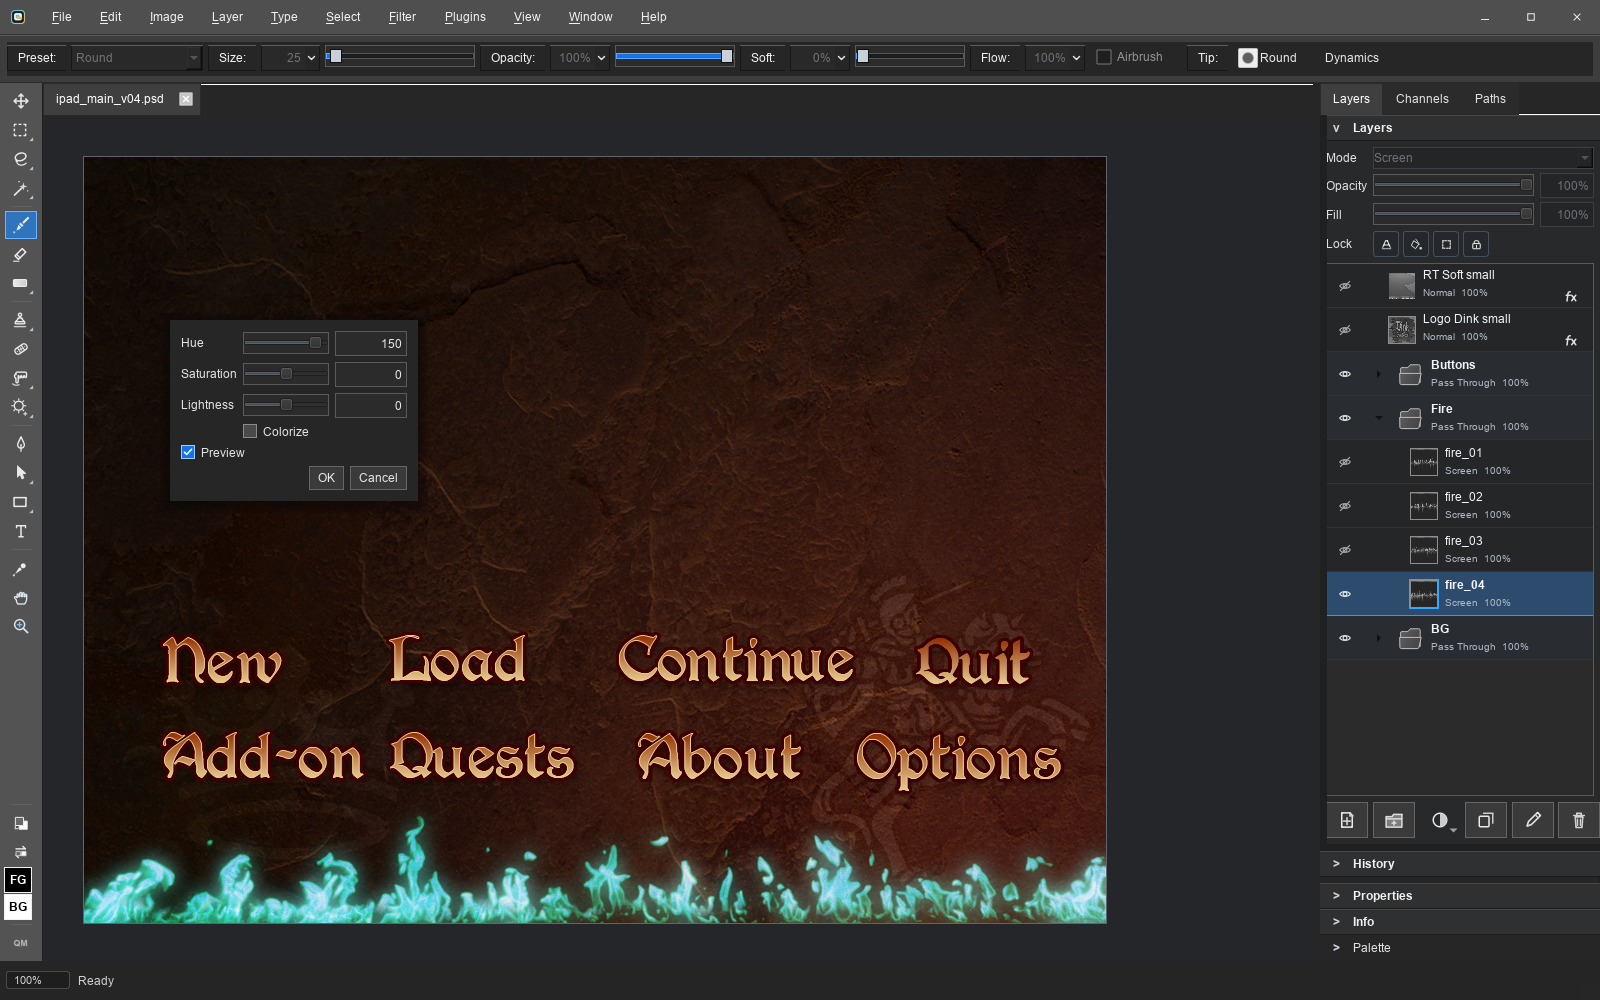
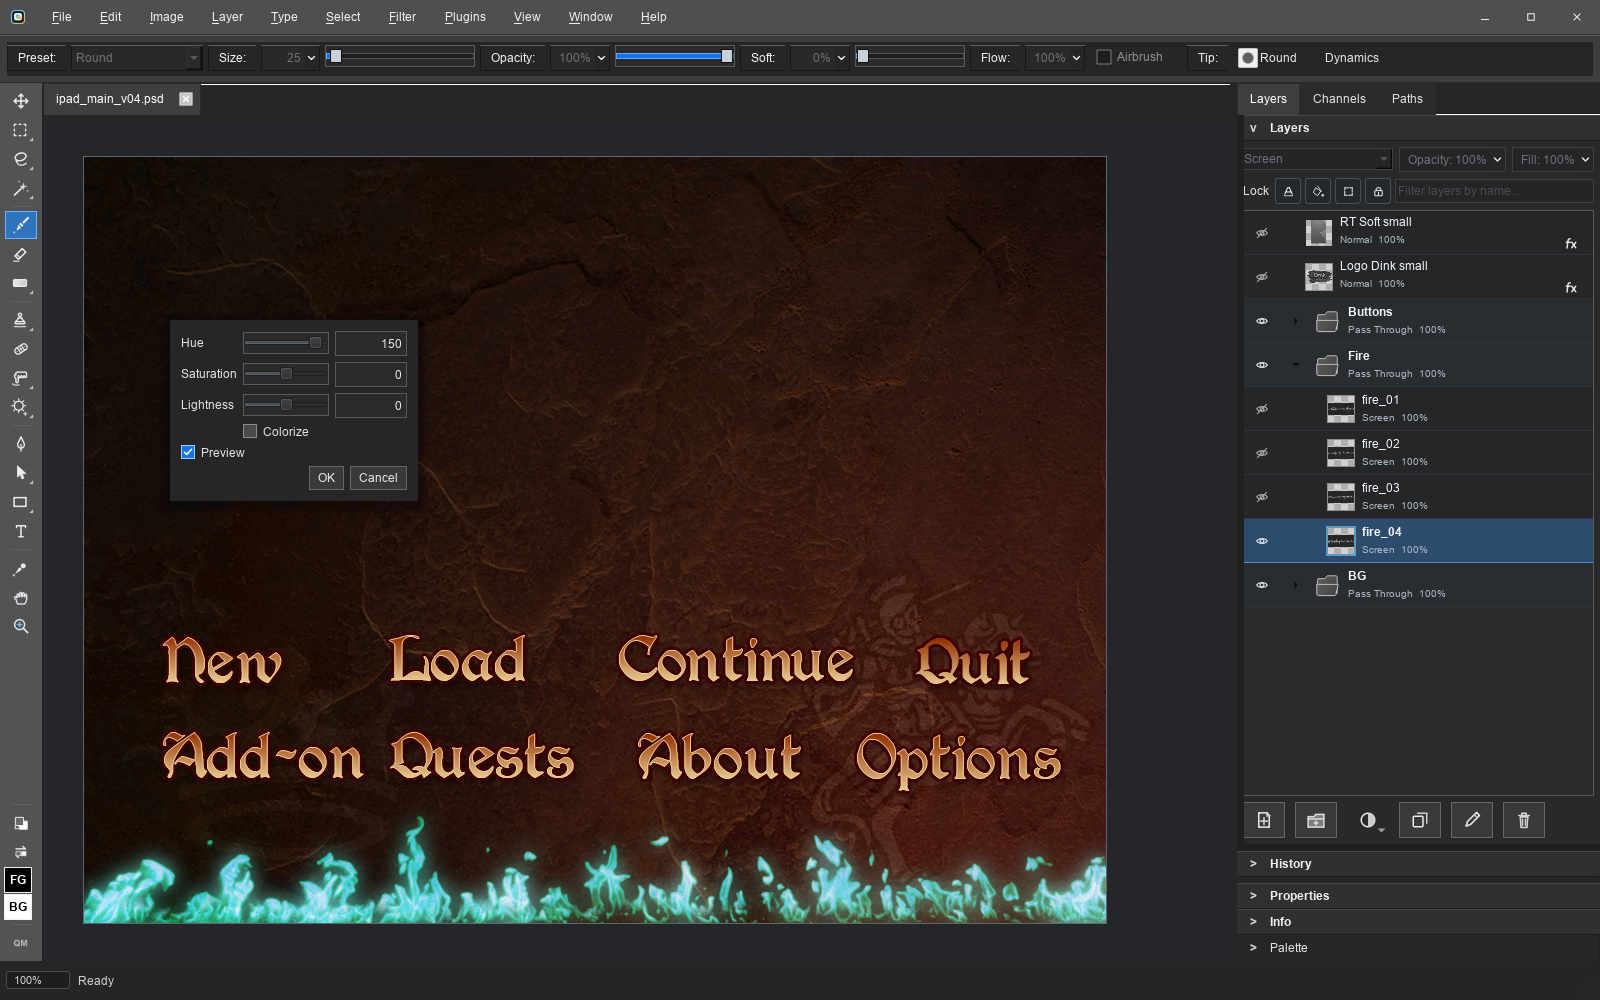
Docs, versioning, and regenerated README screenshots for V0.83

Changed region(s): [[0.75, 0.062, 1.0, 0.651], [0.7812, 0.806, 1.0, 0.961], [0.875, 0.093, 0.9375, 0.124]]

diff --git a/README.md b/README.md
@@ -169,6 +169,18 @@ flatpak install -y flathub org.freedesktop.Platform.ffmpeg-full//24.08
 
 ## What's New
 
+### 0.83 - July 25, 2026
+
+- The Layers panel got a big cleanup: Mode, Opacity, and Fill share one compact row, the lock buttons sit together on the left, and thumbnails aspect-fit their layer instead of stretching to a square (hidden layers keep full-color thumbnails, and the transparency checker is brighter, like Photoshop's)
+- A new filter box in the Layers panel finds layers by name, including inside collapsed folders. Alt-click a visibility eye to solo that layer and Alt-click again to restore what was visible before, or drag down the eye column to toggle a whole run of layers in one sweep
+- Layer groups can now carry raster masks: Add Layer Mask works on folders, group masks render and round-trip through PSD, and group opacity now composites like Photoshop for both Pass Through and isolated blend modes
+- 16-bit and 32-bit PSD files now open, converting to 8-bit with Photoshop-calibrated conversion
+- Layer style rendering moved much closer to Photoshop: inner glow and inner shadow model Range, Technique, and the Center source; Bevel & Emboss gains calibrated Lambert shading, plain and Pillow Emboss, and correct pillow shading on anti-aliased curves; strokes anchor to subpixel coverage, render Shape Burst gradients, and model Overprint and zero-opacity knockout; gradient overlays match Photoshop's linear, radial, diamond, and conical geometry; interior effects stack in Photoshop's order; and Layer Knocks Out Drop Shadow works
+- PSD compatibility fixes: effect blend modes in Photoshop CS-era files import correctly instead of falling back to Normal, CS4-era shape layers rasterize instead of locking the file, imported text keeps Photoshop's own raster until you edit it (no more substituted-font redraws at load), and layers positioned far off the canvas keep their true position instead of being pulled onto the canvas and re-saved wrong
+- The gradient options bar gained a Presets button with a quick-picker popup, which the Edit Gradient Stops dialog now uses too
+- Affinity .af text imports first-line, hanging, and right paragraph indents
+- Fixes: Reveal in Explorer opens the right folder when the path has spaces, boxed text lines that straddle the frame edge draw whole, and the Script Manager's tree pane no longer cuts off bundled script names
+
 ### 0.82 - July 21, 2026
 
 - JavaScript scripting is here: scripts drive documents, layers, text, selections, pixels, filters, form dialogs, file pickers, and batch processing through a documented API (patchy.d.ts for machines, a scripting guide under Help for humans), with one undo entry per run no matter how much a script changes
@@ -177,19 +189,6 @@ flatpak install -y flathub org.freedesktop.Platform.ffmpeg-full//24.08
 - Scripts ask for input through patchy.ui.showOptions: a real options dialog with instructions and folder/file pickers in GUI runs, --script-arg overrides from the command line, and the same defaults applied without a dialog when run unattended
 - Scripts can play sound with patchy.ui.playTone and playSound (Breakout and Pong picked up retro blips), a long busy script shows a stop panel with live progress and optional undo of its changes, and the script watchdog measures inactivity rather than total runtime so hour-long batches survive
 - patchy --run-script file.js runs a script against a new or running instance and writes console output to a file, so external tools and AI agents can drive Patchy; the Script Manager's C:\ button shows a copyable command line for any script
-
-### 0.81 - July 20, 2026
-
-- Affinity Photo and Designer .af files now open as layered documents: raster layers (8-bit, 16-bit, grayscale, and float), groups, layer masks, clipping, opacity and blend modes, CMYK and Lab color through ICC conversion, document DPI, and the canvas background all come through, with scaled and rotated layers rendered through their transforms. Anything Patchy can't model becomes a named placeholder layer with a notice instead of failing the open
-- Affinity text imports as real editable text layers with per-run fonts, sizes, and colors, alignment, paragraph spacing, All Caps, frame-box wrapping, and rotated artistic text, and Affinity layer effects (shadows, glows, strokes, color and gradient overlays, bevels) map onto Patchy layer styles
-- Affinity vector curves import as shape layers with their fills and strokes, placed images become embedded Smart Objects (so Edit Contents and Replace Contents work on them), and Curves, Levels, HSL, Color Balance, Invert, Posterize, Threshold, and Brightness/Contrast adjustment layers import natively with their masks
-- Five new blend modes: Vivid Light, Linear Light, Hard Mix, Darker Color, and Lighter Color, all calibrated bit-exact against Photoshop 2026, and Color Burn and Color Dodge rounding now matches Photoshop exactly
-- File > Import > Image Sequence to Layers and File > Export Layers as Image Sequence: files order naturally (frame2 before frame10), picking one numbered file pulls in its whole run, and export covers visible or all layers with numbered or layer-name file names
-- Seamless texture tools: the tile preview now follows the active document and refreshes live, Image > Shift Seams to Center wraps the image so the seams sit in the middle for retouching (running it again shifts back exactly), and View > Seamless Tiling in Window surrounds the canvas with live ghost tiles
-- Smart Filter rows open their settings on double-click with blend mode and opacity merged into the same dialog, and Filter Gallery entries gain per-effect blend and opacity controls
-- The Open dialog now lists one row per file format, Photoshop style, so every supported type is visible in the dropdown
-- The Character panel grays out with a hint when no text is being edited, Alt+click on a folder's arrow expands or collapses the whole branch, the layer panel's selection highlight and thumbnails render correctly, and options-bar number fields no longer clip wide values
-- The startup splash is gone: Patchy opens straight into the start panel, which now carries the version, links, and update check. Save PDF suggests the document's name, and patchy.exe gains an unattended --export flag for converting files from the command line
 
 [Older releases](RELEASE-HISTORY.md)
 

diff --git a/RELEASE-HISTORY.md b/RELEASE-HISTORY.md
@@ -3,6 +3,19 @@
 Older Patchy release notes are collected here. The two most recent releases
 remain in [README.md](README.md#whats-new).
 
+## 0.81 - July 20, 2026
+
+- Affinity Photo and Designer .af files now open as layered documents: raster layers (8-bit, 16-bit, grayscale, and float), groups, layer masks, clipping, opacity and blend modes, CMYK and Lab color through ICC conversion, document DPI, and the canvas background all come through, with scaled and rotated layers rendered through their transforms. Anything Patchy can't model becomes a named placeholder layer with a notice instead of failing the open
+- Affinity text imports as real editable text layers with per-run fonts, sizes, and colors, alignment, paragraph spacing, All Caps, frame-box wrapping, and rotated artistic text, and Affinity layer effects (shadows, glows, strokes, color and gradient overlays, bevels) map onto Patchy layer styles
+- Affinity vector curves import as shape layers with their fills and strokes, placed images become embedded Smart Objects (so Edit Contents and Replace Contents work on them), and Curves, Levels, HSL, Color Balance, Invert, Posterize, Threshold, and Brightness/Contrast adjustment layers import natively with their masks
+- Five new blend modes: Vivid Light, Linear Light, Hard Mix, Darker Color, and Lighter Color, all calibrated bit-exact against Photoshop 2026, and Color Burn and Color Dodge rounding now matches Photoshop exactly
+- File > Import > Image Sequence to Layers and File > Export Layers as Image Sequence: files order naturally (frame2 before frame10), picking one numbered file pulls in its whole run, and export covers visible or all layers with numbered or layer-name file names
+- Seamless texture tools: the tile preview now follows the active document and refreshes live, Image > Shift Seams to Center wraps the image so the seams sit in the middle for retouching (running it again shifts back exactly), and View > Seamless Tiling in Window surrounds the canvas with live ghost tiles
+- Smart Filter rows open their settings on double-click with blend mode and opacity merged into the same dialog, and Filter Gallery entries gain per-effect blend and opacity controls
+- The Open dialog now lists one row per file format, Photoshop style, so every supported type is visible in the dropdown
+- The Character panel grays out with a hint when no text is being edited, Alt+click on a folder's arrow expands or collapses the whole branch, the layer panel's selection highlight and thumbnails render correctly, and options-bar number fields no longer clip wide values
+- The startup splash is gone: Patchy opens straight into the start panel, which now carries the version, links, and update check. Save PDF suggests the document's name, and patchy.exe gains an unattended --export flag for converting files from the command line
+
 ## 0.80 - July 18, 2026
 
 - Vector tools are here: the Rectangle, Ellipse, Line, Polygon, and Custom Shape tools draw editable shape layers, the Pen builds bezier paths point by point with cursor badges that show what each click will do, and the Path Select and Direct Select tools move whole shapes or individual anchors with live re-rendering. Shape layers, vector masks, and saved paths round-trip through PSD and PSB files that open correctly in Photoshop
